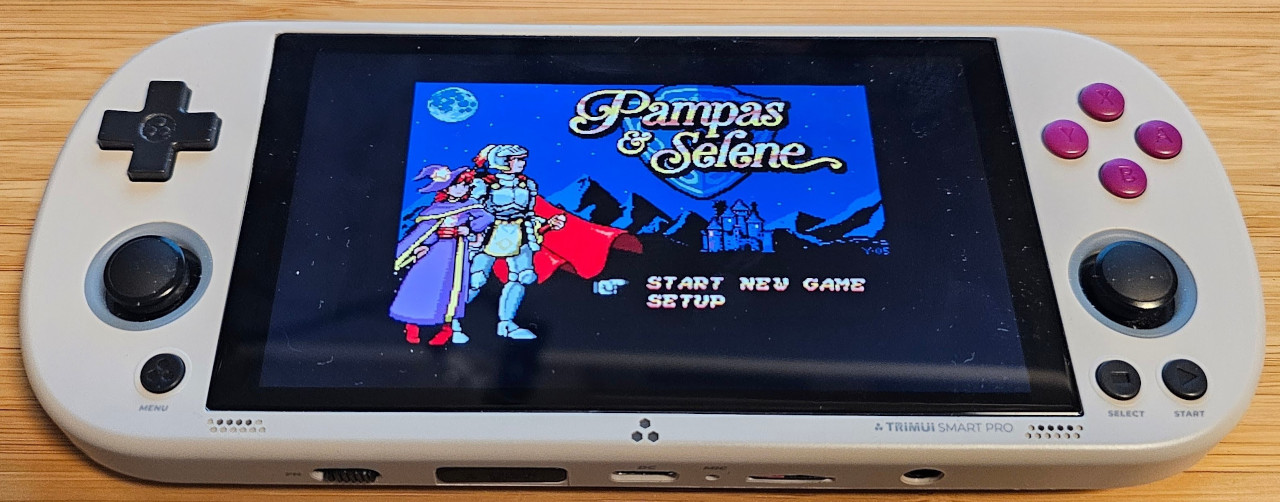
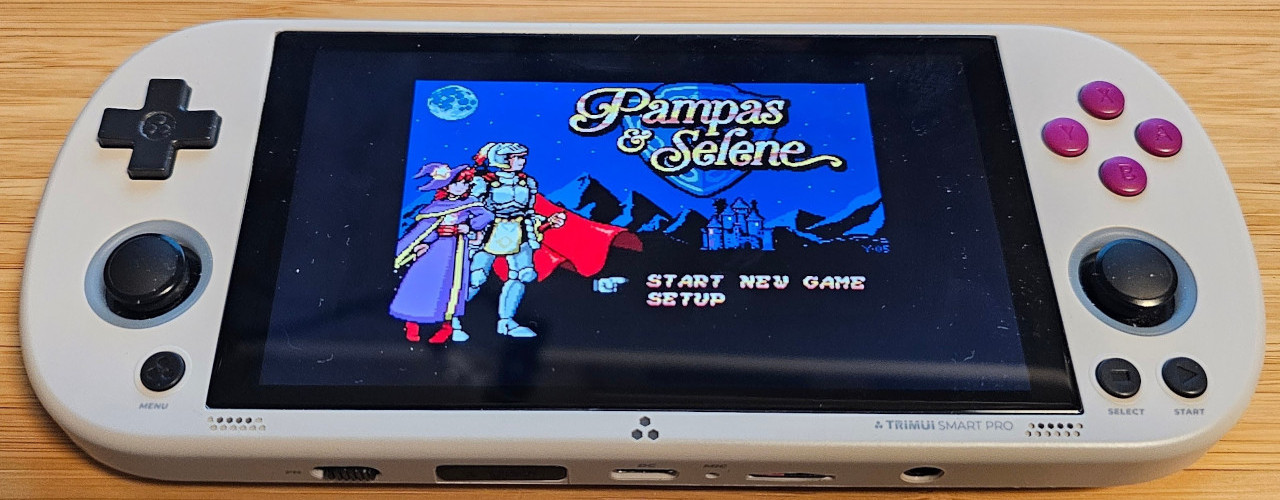
Updated readme

diff --git a/README.md b/README.md
@@ -1,6 +1,6 @@
 # openMSX for Trimui Smart Pro
 
-<img height="200" src="images/trimui_smart_pro.jpg"> 
+<img height="250" width="640" src="images/trimui_smart_pro.jpg"> 
 
 ### How to get your console
 Please use these affiliate links when buying your Trimui to support me!  
@@ -14,9 +14,9 @@ Accessories for Trimui Smart Pro
 
 
 ### How to install
-IMPORTANT: You must have [Crossmix OS](https://github.com/cizia64/CrossMix-OS) installed to use openMSX.
+IMPORTANT: You must have [Crossmix OS](https://github.com/cizia64/CrossMix-OS) installed to use openMSX. Save yourself some headache by using a branded SDCARD of good quality and not the noname card that you may get when buying the device.
 
-Extract the release archive in the "Emus" folder on the SDCARD. Run the "EmuCleaner" App after installation.
+Extract the openMSX release archive in the "Emus" folder on the SDCARD. Run the "EmuCleaner" App after installation.
 
 ### How to use
 Select a game in the MSX or MSX2 category and press the X button. This brings up a menu where you can select diffrent configurations.
@@ -34,7 +34,10 @@ R1 - Quick save state.
 L1 - Quick load state.  
 R2/L2 - Toggle Show FPS.
 
+NOTE: Running Turbo R requires system roms to be installed. These will be automatically downloaded the first time you run Turbo R if you are connected to wifi.
+
 ### How to build
+You need Linux to build.  
 Install the [patched SDK](https://github.com/pthalin/SDK_Trimui_Smart_Pro)  
 Run "source build.sh" in the top dir.
 
